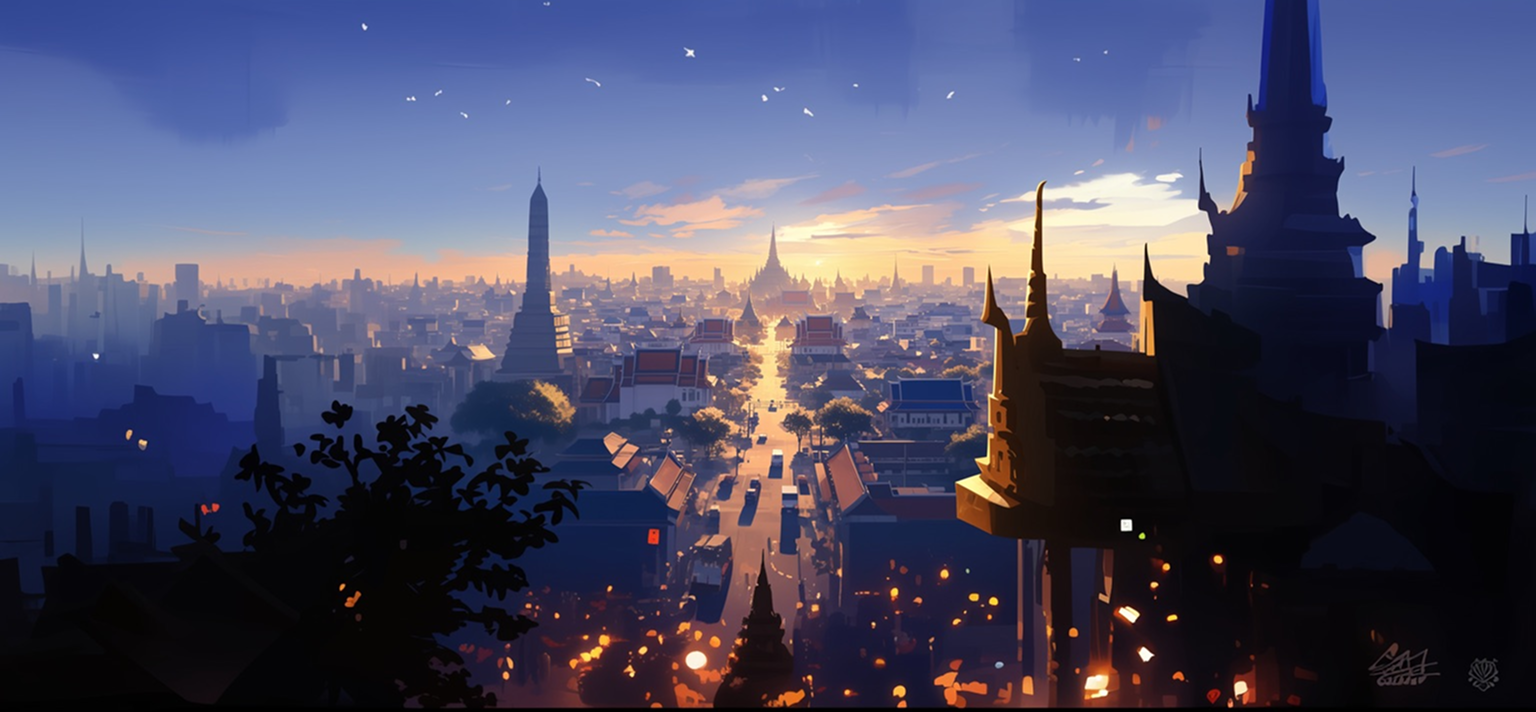
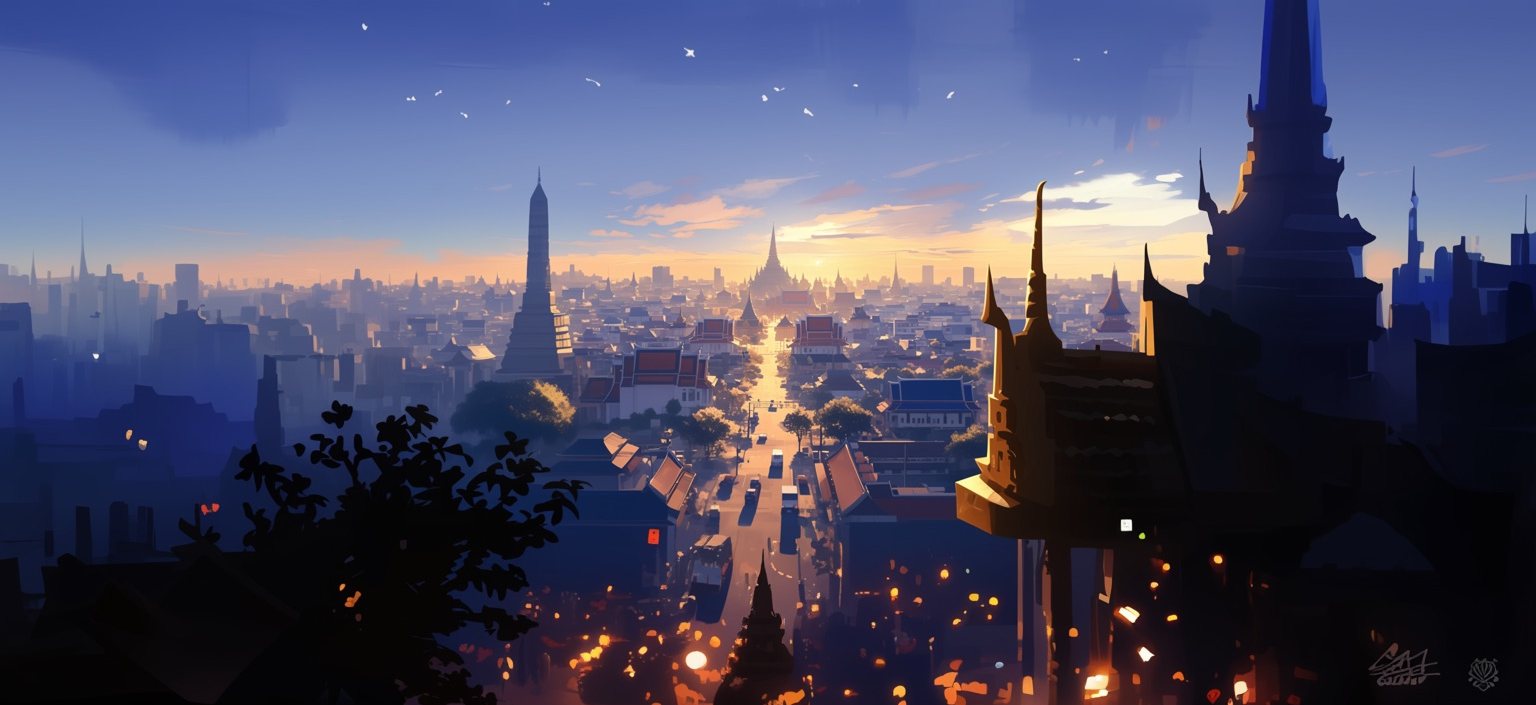
Replace image

diff --git a/public/output.css b/public/output.css
@@ -12,6 +12,8 @@
     --color-red-600: oklch(0.577 0.245 27.325);
     --color-red-700: oklch(0.505 0.213 27.518);
     --color-red-800: oklch(0.444 0.177 26.899);
+    --color-red-900: oklch(0.396 0.141 25.723);
+    --color-amber-50: oklch(0.987 0.022 95.277);
     --color-yellow-200: oklch(0.945 0.129 101.54);
     --color-yellow-300: oklch(0.905 0.182 98.111);
     --color-yellow-400: oklch(0.852 0.199 91.936);
@@ -665,14 +667,23 @@
     border-left-style: var(--tw-border-style);
     border-left-width: 4px;
   }
+  .border-red-200 {
+    border-color: var(--color-red-200);
+  }
   .border-red-200\/20 {
     border-color: color-mix(in oklab, var(--color-red-200) 20%, transparent);
   }
   .border-red-200\/40 {
     border-color: color-mix(in oklab, var(--color-red-200) 40%, transparent);
   }
+  .border-red-400 {
+    border-color: var(--color-red-400);
+  }
   .border-red-600 {
     border-color: var(--color-red-600);
+  }
+  .border-slate-200 {
+    border-color: var(--color-slate-200);
   }
   .border-slate-200\/40 {
     border-color: color-mix(in oklab, var(--color-slate-200) 40%, transparent);
@@ -701,6 +712,9 @@
   .bg-\[\#CC0000\] {
     background-color: #CC0000;
   }
+  .bg-amber-50 {
+    background-color: var(--color-amber-50);
+  }
   .bg-red-600 {
     background-color: var(--color-red-600);
   }
@@ -709,6 +723,9 @@
   }
   .bg-red-700 {
     background-color: var(--color-red-700);
+  }
+  .bg-red-800 {
+    background-color: var(--color-red-800);
   }
   .bg-slate-700 {
     background-color: var(--color-slate-700);
@@ -731,6 +748,9 @@
   .bg-white {
     background-color: var(--color-white);
   }
+  .bg-yellow-200 {
+    background-color: var(--color-yellow-200);
+  }
   .bg-yellow-400 {
     background-color: var(--color-yellow-400);
   }
@@ -741,13 +761,27 @@
     --tw-gradient-position: to right in oklab;
     background-image: linear-gradient(var(--tw-gradient-stops));
   }
+  .from-yellow-900 {
+    --tw-gradient-from: var(--color-yellow-900);
+    --tw-gradient-stops: var(--tw-gradient-via-stops, var(--tw-gradient-position), var(--tw-gradient-from) var(--tw-gradient-from-position), var(--tw-gradient-to) var(--tw-gradient-to-position));
+  }
   .from-yellow-900\/30 {
     --tw-gradient-from: color-mix(in oklab, var(--color-yellow-900) 30%, transparent);
+    --tw-gradient-stops: var(--tw-gradient-via-stops, var(--tw-gradient-position), var(--tw-gradient-from) var(--tw-gradient-from-position), var(--tw-gradient-to) var(--tw-gradient-to-position));
+  }
+  .to-slate-900 {
+    --tw-gradient-to: var(--color-slate-900);
     --tw-gradient-stops: var(--tw-gradient-via-stops, var(--tw-gradient-position), var(--tw-gradient-from) var(--tw-gradient-from-position), var(--tw-gradient-to) var(--tw-gradient-to-position));
   }
   .to-slate-900\/50 {
     --tw-gradient-to: color-mix(in oklab, var(--color-slate-900) 50%, transparent);
     --tw-gradient-stops: var(--tw-gradient-via-stops, var(--tw-gradient-position), var(--tw-gradient-from) var(--tw-gradient-from-position), var(--tw-gradient-to) var(--tw-gradient-to-position));
+  }
+  .bg-cover {
+    background-size: cover;
+  }
+  .bg-center {
+    background-position: center;
   }
   .object-contain {
     object-fit: contain;
@@ -958,6 +992,9 @@
   .text-slate-400 {
     color: var(--color-slate-400);
   }
+  .text-slate-700 {
+    color: var(--color-slate-700);
+  }
   .text-slate-800 {
     color: var(--color-slate-800);
   }
@@ -1002,6 +1039,9 @@
   }
   .opacity-50 {
     opacity: 50%;
+  }
+  .opacity-80 {
+    opacity: 80%;
   }
   .mix-blend-multiply {
     mix-blend-mode: multiply;
@@ -1052,6 +1092,10 @@
   }
   .filter {
     filter: var(--tw-blur,) var(--tw-brightness,) var(--tw-contrast,) var(--tw-grayscale,) var(--tw-hue-rotate,) var(--tw-invert,) var(--tw-saturate,) var(--tw-sepia,) var(--tw-drop-shadow,);
+  }
+  .backdrop-filter {
+    -webkit-backdrop-filter: var(--tw-backdrop-blur,) var(--tw-backdrop-brightness,) var(--tw-backdrop-contrast,) var(--tw-backdrop-grayscale,) var(--tw-backdrop-hue-rotate,) var(--tw-backdrop-invert,) var(--tw-backdrop-opacity,) var(--tw-backdrop-saturate,) var(--tw-backdrop-sepia,);
+    backdrop-filter: var(--tw-backdrop-blur,) var(--tw-backdrop-brightness,) var(--tw-backdrop-contrast,) var(--tw-backdrop-grayscale,) var(--tw-backdrop-hue-rotate,) var(--tw-backdrop-invert,) var(--tw-backdrop-opacity,) var(--tw-backdrop-saturate,) var(--tw-backdrop-sepia,);
   }
   .transition {
     transition-property: color, background-color, border-color, outline-color, text-decoration-color, fill, stroke, --tw-gradient-from, --tw-gradient-via, --tw-gradient-to, opacity, box-shadow, transform, translate, scale, rotate, filter, -webkit-backdrop-filter, backdrop-filter;
@@ -1641,6 +1685,42 @@ body {
   inherits: false;
 }
 @property --tw-drop-shadow {
+  syntax: "*";
+  inherits: false;
+}
+@property --tw-backdrop-blur {
+  syntax: "*";
+  inherits: false;
+}
+@property --tw-backdrop-brightness {
+  syntax: "*";
+  inherits: false;
+}
+@property --tw-backdrop-contrast {
+  syntax: "*";
+  inherits: false;
+}
+@property --tw-backdrop-grayscale {
+  syntax: "*";
+  inherits: false;
+}
+@property --tw-backdrop-hue-rotate {
+  syntax: "*";
+  inherits: false;
+}
+@property --tw-backdrop-invert {
+  syntax: "*";
+  inherits: false;
+}
+@property --tw-backdrop-opacity {
+  syntax: "*";
+  inherits: false;
+}
+@property --tw-backdrop-saturate {
+  syntax: "*";
+  inherits: false;
+}
+@property --tw-backdrop-sepia {
   syntax: "*";
   inherits: false;
 }
